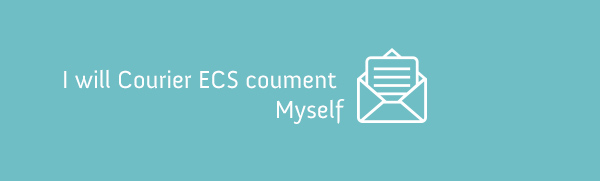
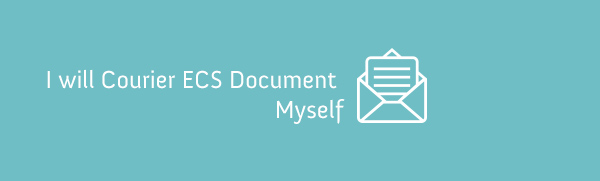
Emailer image changed. Still waiting for sign off.

Changed region(s): [[0.06, 0.3867, 0.45, 0.4972]]

diff --git a/application/controllers/home.php b/application/controllers/home.php
@@ -709,7 +709,7 @@ class Home extends CI_Controller {
 	        $this->email->initialize($config);
 
 	        $this->email->from('EcsMandate@myuniverse.co.in', 'MyUniverse ECS Mandate');
-	        // $this->email->to("dipeshpithava@gmail.com");
+	        //$this->email->to("dipeshpithava@gmail.com");
 	        $this->email->to(@$investor->myUniverseEmailId);
 
 	        $this->email->subject('ECS Mandate');

diff --git a/application/controllers/admin.php b/application/controllers/admin.php
@@ -786,7 +786,7 @@ class Admin extends CI_Controller {
 	public function message_selector($new_status){
 		switch ($new_status) {
 			case 'courier myself':
-				$txt = "";
+				$txt = "emailer/courier_myself";
 				break;
 
 			case 'unscheduled':
